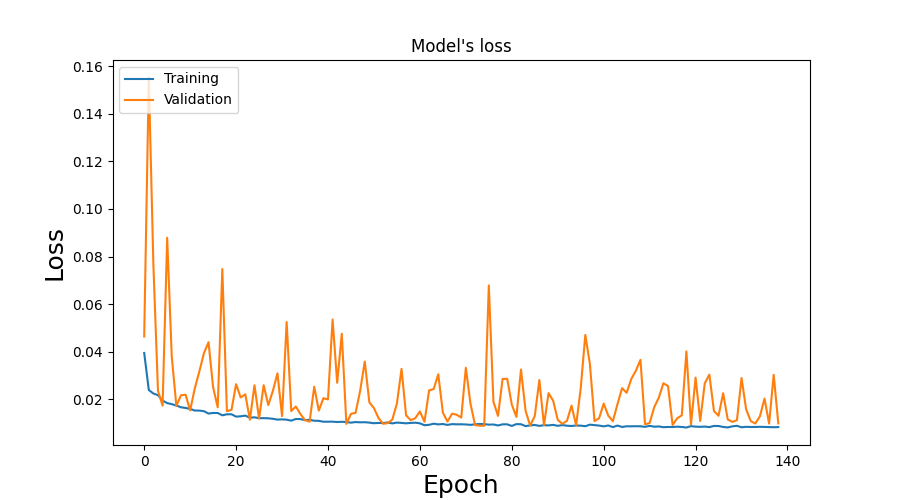
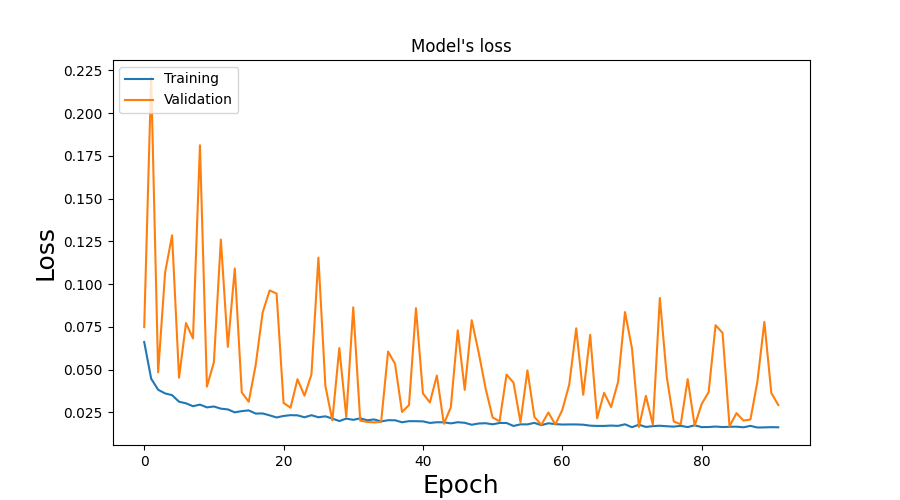
retrain model, save predicted results

diff --git a/stock-prediction.py b/stock-prediction.py
@@ -86,6 +86,8 @@ def prediction_with_basic_lstm(x_train:np.array, y_train:np.array, x_test:np.arr
         "Loss"
     )
 
+    np.save('saves/basic_predicted.npy', predicted)
+
 def prediction_with_esn(x_train:np.array, y_train:np.array, x_test:np.array, y_test:np.array, scaled:np.array, scaler:MinMaxScaler):
     model = ESNModel(500)
     ESN_FUTURE = 2
@@ -127,7 +129,11 @@ test_set = np.array(scaler.transform(test_set))
 
 x_train, y_train = create_x_y_matrices(train_set)
 x_test, y_test = create_x_y_matrices(test_set)
+print(x_train.shape)
+print(y_train.shape)
+print(x_test.shape)
+print(y_test.shape)
 x_train = np.reshape(x_train, (-1, TRAIN_SEQUENCE_LENGTH, 1))
 x_test = np.reshape(x_test, (-1, TRAIN_SEQUENCE_LENGTH, 1))
 
-prediction_with_basic_lstm(x_train, y_train, x_test, y_test, scaler)
+#prediction_with_basic_lstm(x_train, y_train, x_test, y_test, scaler)

diff --git a/README.md b/README.md
@@ -42,7 +42,7 @@ Given the fact that predicting stock prices for the next n days ahead is the sam
 
 Simple LSTM-based model to predict the prices of Nvidia stocks.
 
-The input data is divided to training and testing sets with a 9:1 ratio, meaning that the first 1620 data points became the training while the remaining 180 points the test set. In order to make the job of the model a bit easier, MinMaxScaling was used to move the values between 0 and 1.
+The input data is divided to training and testing sets with a 9:1 ratio, meaning that the first 1620 data points became the training while the remaining 180 points the test set. In order to make the job of the model a bit easier, MinMaxScaling was used to move the training values between 0 and 1.
 
 For both the training and testing, short sequences of data were created with a length of 20 by using the sliding window approach. Essentially this means, that the stock price on the next day will be determined based on the previous 20 days of data.
 
@@ -61,6 +61,8 @@ As it can be seen on the performance chart, the output isn't that far of from th
 ![Basic model regression](images/Basic-model-regression-plot.png)
 
 Based on the regression and performance chart, the model is giving reasonable but not accurate predictions.
+
+Mean Absolute Error on test set: 0.09
 
 ### ESN model
 
